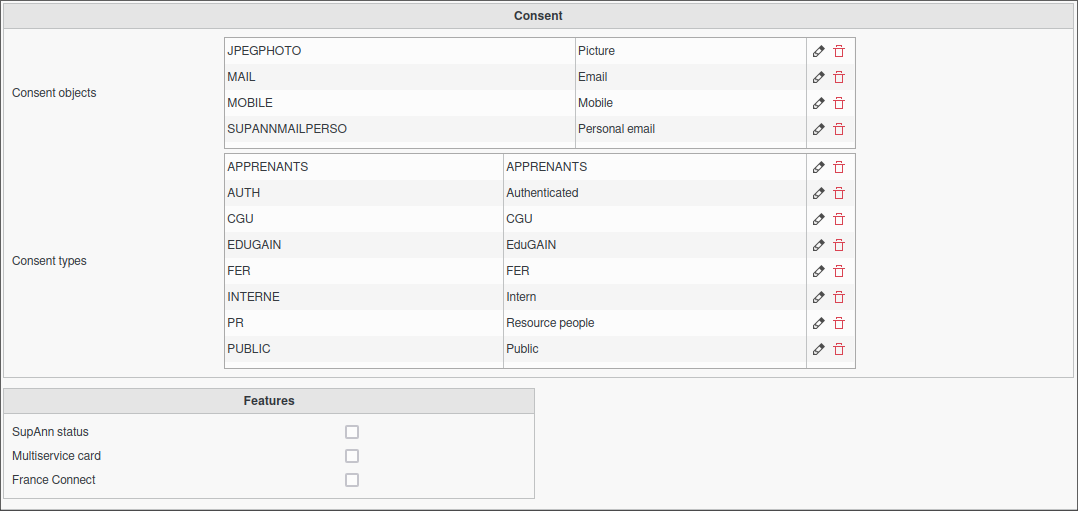
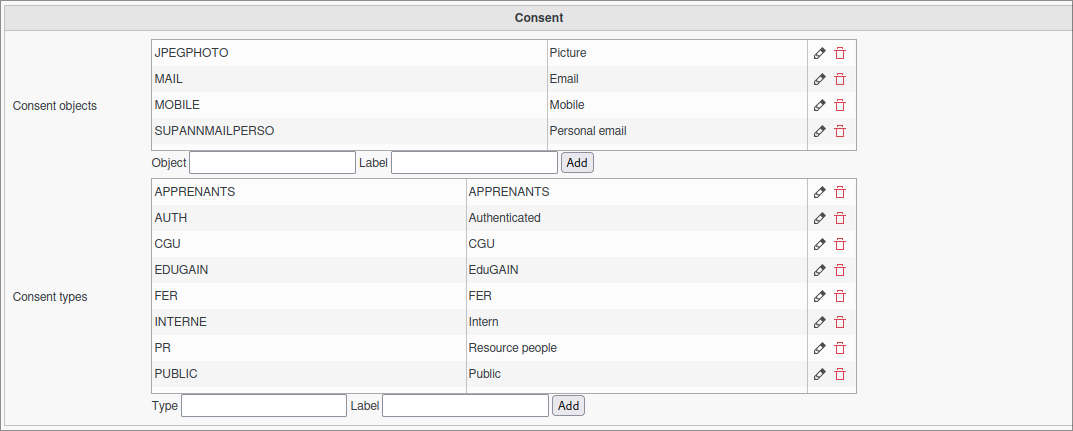
:sparkles: Feat(User-manual) - enhance supann documentation
Enhance plugin supann backend configuration p7

diff --git a/source/fusiondirectory/plugins/supann/configuration.rst b/source/fusiondirectory/plugins/supann/configuration.rst
@@ -37,6 +37,9 @@ Configure SupAnn Options
 
 4. The SupAnn configuration menu will appear:
 
+   .. image:: images/supann-configuration-menu_1.png
+      :alt: SupAnn configuration menu in FusionDirectory
+
 - **SupAnn RDN**: Defines the branch where SupAnn structures will be stored (**required**).
 - **SupAnn Mail for Recovery**: Enables password recovery using email addresses from the personal mail field in a SupAnn account.
 - **Show mailForwardingAddress Field**: Displays the **mailForwardingAddress** attribute, making it available and editable in individual user configurations.
@@ -45,11 +48,13 @@ Configure SupAnn Options
 - **Custom supannAdressePostalePrivee Types**: Permits the definition of a **Type** and a **Label** for private postal addresses, ensuring compliance with SupAnn guidelines.
 - **SupAnn Civilité**: Expands available titles beyond "M." and "Mme." to provide greater inclusivity, following SupAnn recommendations.
 
-   .. image:: images/supann-configuration-menu_1.png
-      :alt: SupAnn configuration menu in FusionDirectory
-
 Configure SupAnn Resources
 --------------------------
+
+**Overview of Supann Resources configuration section**
+
+   .. image:: images/supann-configuration-menu_2.png
+      :alt: SupAnn configuration menu in FusionDirectory
 
 **In order to configure a new resource:**
     1. Fill in the appropriate fields as shown below.
@@ -67,11 +72,6 @@ Configure SupAnn Resources
 
 - **Custom Labels**: Defines labels for custom substates.
 
-**Overview of Supann Resources configuration section**
-
-   .. image:: images/supann-configuration-menu_2.png
-      :alt: SupAnn configuration menu in FusionDirectory
-
 *Example: Adding a "Lost" Substate*
 
 To add the substate **Perdu** (Lost) under the "Library" resource:
@@ -82,38 +82,53 @@ To add the substate **Perdu** (Lost) under the "Library" resource:
 Once all settings are configured, click **OK** at the bottom right.
 
 
-Configure Supann Multiservice Card
+Configure SupAnn Multiservice Card
 ----------------------------------
-
-**Configuration Options**
 
 The **Multiservice Card** settings allow configuration of various card-related parameters.
 
-- **Card types**: Defines available card types and their labels. Prefix non-standard types with `{ORIGIN}`.
-- **Card sources**: Specifies possible sources for multiservice cards, using the format `system@domain`.
-- **Card formats**: Lists allowed formats for multiservice cards.
-- **Card application domains**: Defines the domains in which card applications are valid.
+**Overview:**
 
-*Below is an overview:*
+.. image:: images/supann-multiservice-card-settings_1.png
+   :alt: Multiservice Card settings in FusionDirectory
 
-   .. image:: images/supann-multiservice-card-settings_1.png
-      :alt: Multiservice Card settings in FusionDirectory
+.. image:: images/supann-multiservice-card-settings_2.png
+   :alt: Multiservice Card settings continuation in FusionDirectory
 
-   .. image:: images/supann-multiservice-card-settings_2.png
-      :alt: Multiservice Card settings continuation in FusionDirectory
+**Configuration Options:**
 
+- **Card Types**: Defines available card types and their labels. Prefix non-standard types with `{ORIGIN}`.
+- **Card Sources**: Specifies possible sources for multiservice cards using the format `system@domain`.
+- **Card Formats**: Lists allowed formats for multiservice cards.
+- **Card Application Domains**: Defines the domains in which card applications are valid.
 
 Configure SupAnn Consent
 ------------------------
 
 The following configuration allows you to define **consent objects** and **consent types** within SupAnn.
 
-The **Important Features** panel enables activation or deactivation of specific features displayed on the individual user configuration page.
+.. image:: images/supann-configuration-menu_4.png
+   :alt: SupAnn configuration menu continuation in FusionDirectory
 
-By default, **SupAnn Status** is enabled, allowing accounts to have a designated status for resources linked to them.
-The **Multiservice Card** and **FranceConnect** follow the same behavior, providing seamless integration.
+**Steps to Configure Consent:**
 
-You have the flexibility to enable or disable these SupAnn features based on your requirements.
+1. **Consent Object**: Add a new **Object** such as `"PNGPHOTO"` and specify its related **Label**. Click "Add".
+2. **Consent Types**: Add a **Type** with its corresponding **Label** as shown in the example. Click "Add".
 
-   .. image:: images/supann-configuration-menu_4.png
-      :alt: SupAnn configuration menu continuation in FusionDirectory
+💡 **Important:** Click **"Apply"** or **"OK"** at the bottom right of the page to validate all new entries.
+
+Configure SupAnn Features
+-------------------------
+
+.. image:: images/supann-configuration-menu_5.png
+   :alt: SupAnn configuration menu continuation in FusionDirectory
+
+The **Important Features** panel allows activation or deactivation of specific features on the individual user configuration page.
+
+*Default Enabled Features* :
+
+- **SupAnn Status**: Assigns a designated status to accounts for linked resources.
+- **Multiservice Card**: Ensures seamless card integration.
+- **FranceConnect**: Facilitates authentication via FranceConnect.
+
+You may enable or disable these SupAnn features based on your requirements.
